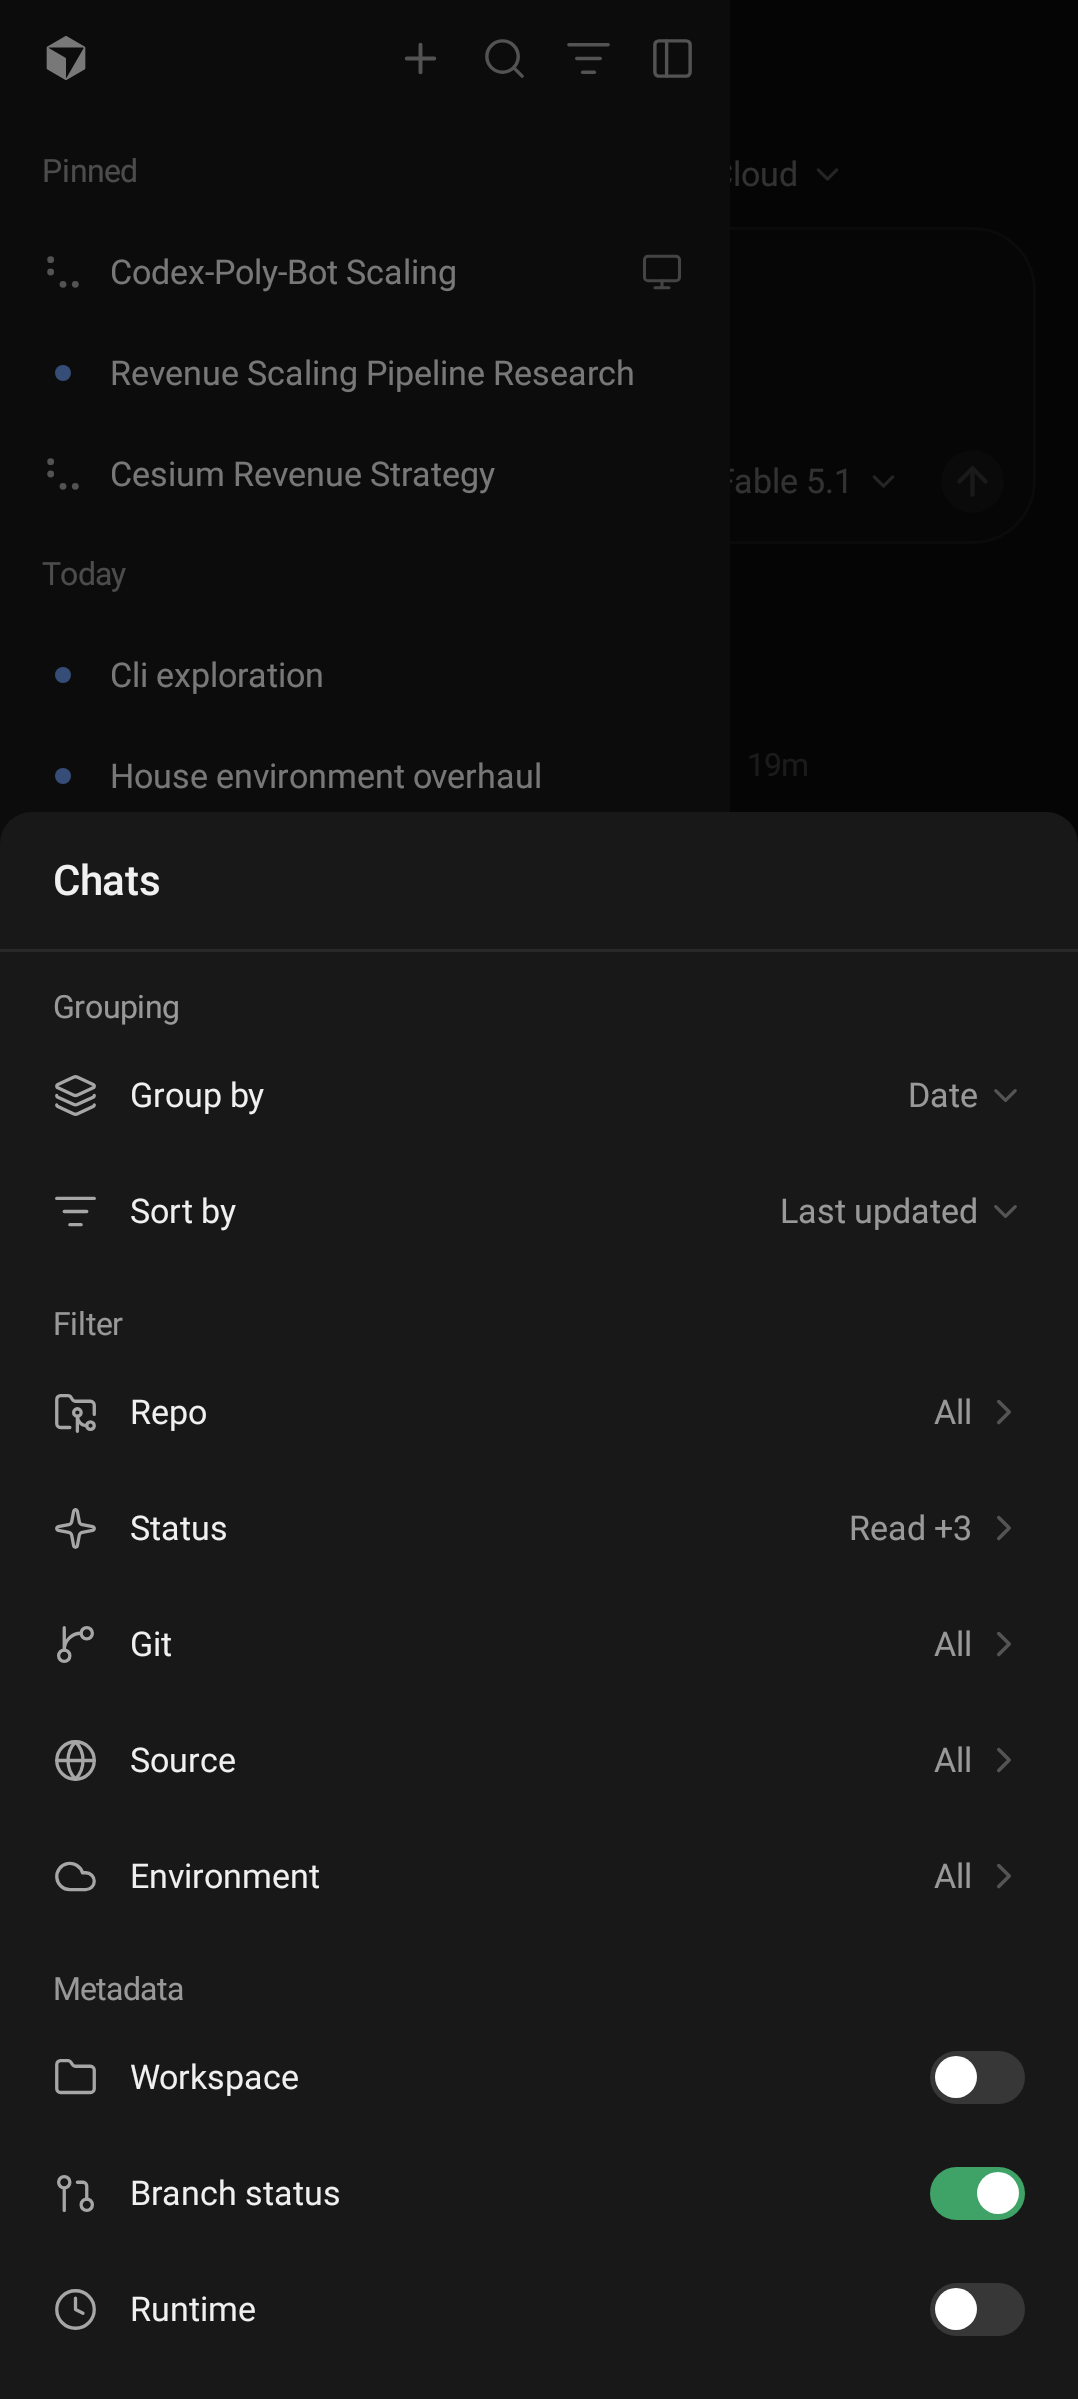
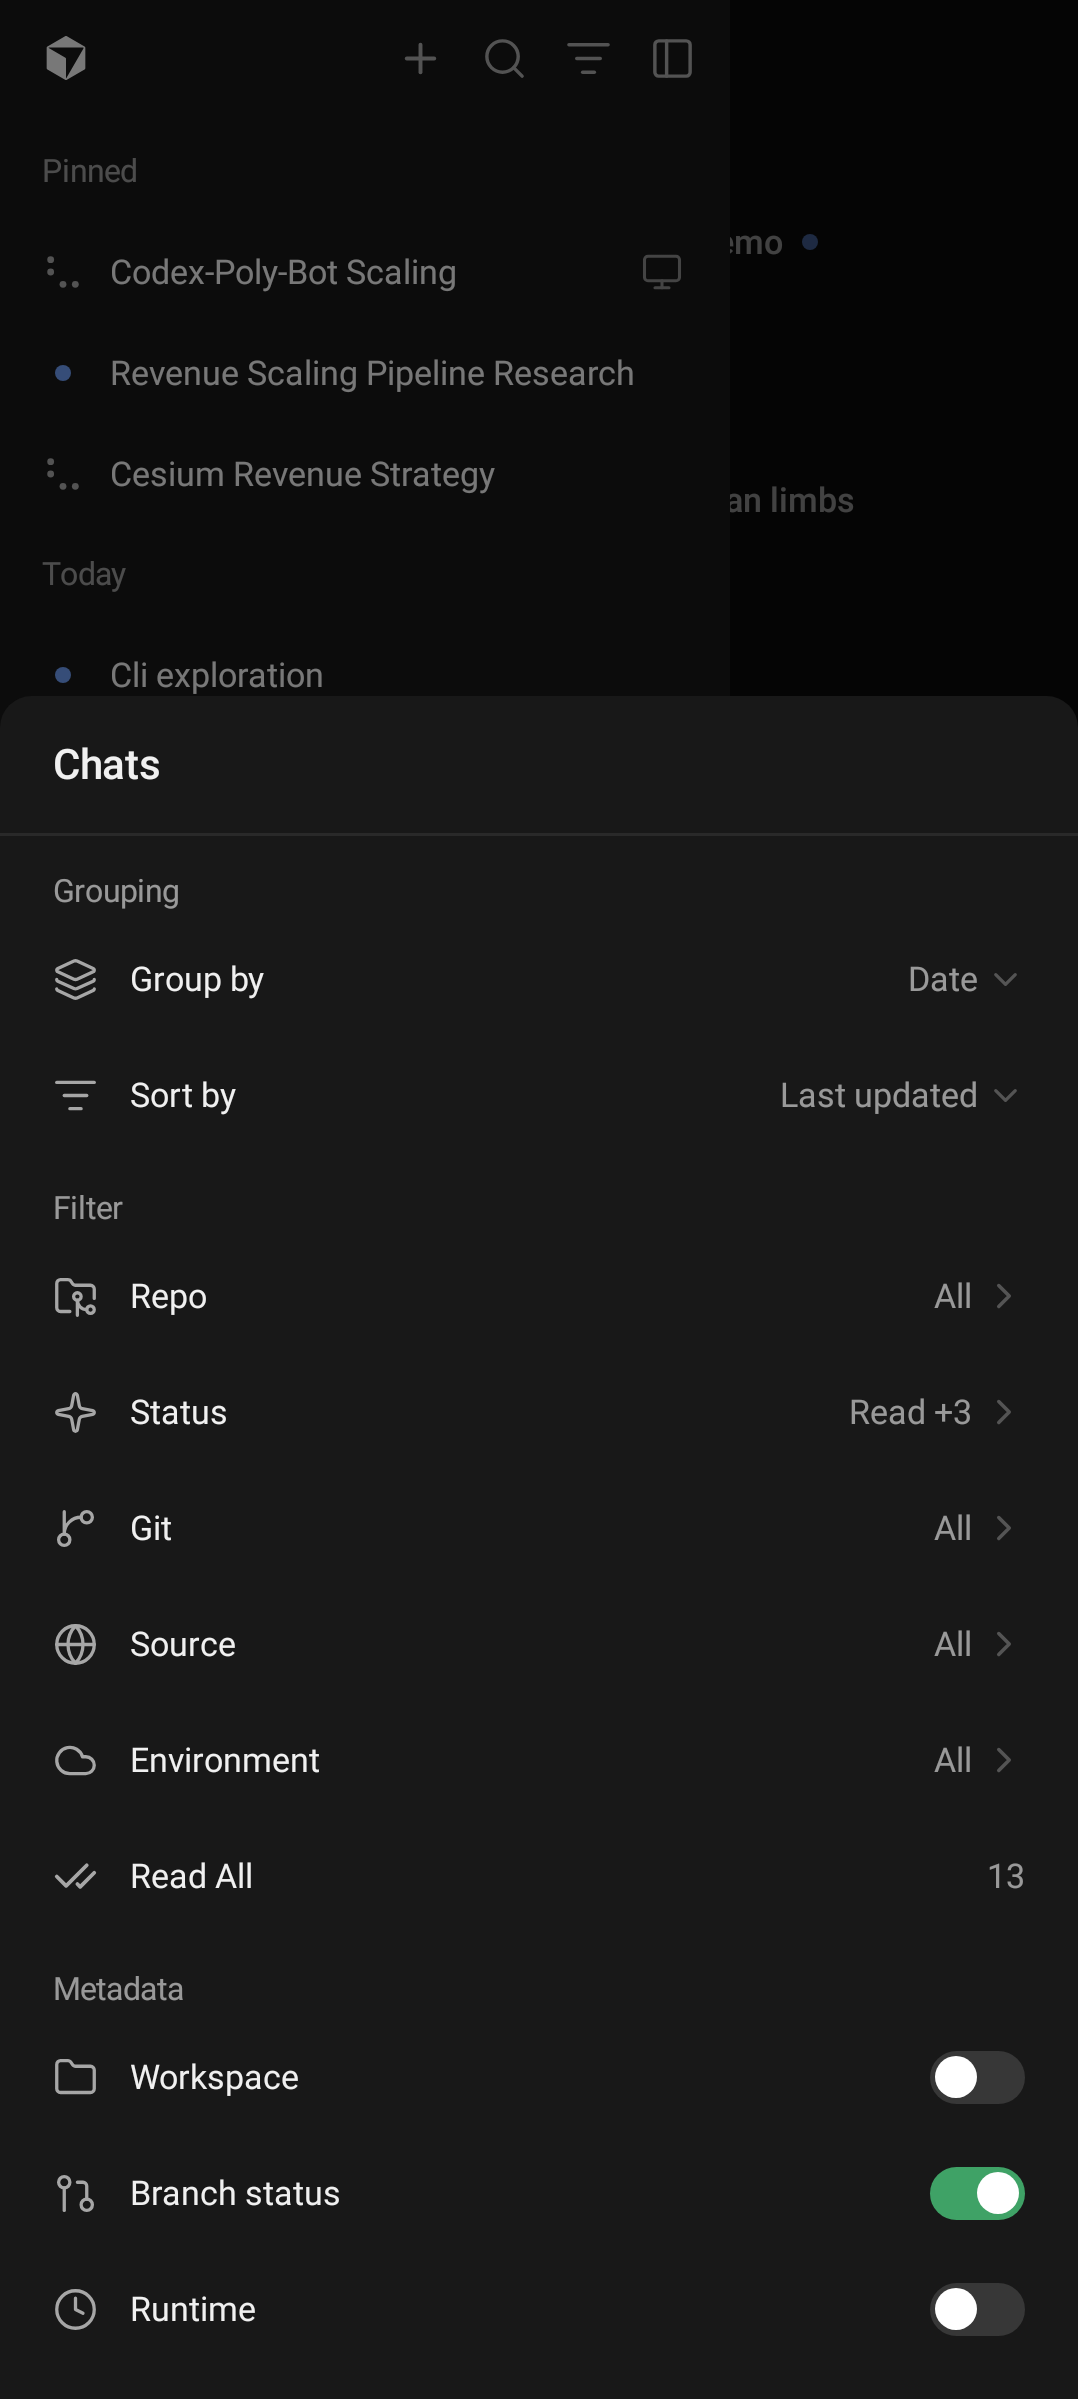
Add a Read All action to the Chats filter sheet.
Tapping it writes a read marker for every loaded conversation at its
current updatedAt, the same stamp opening a chat would write, so the
unread dots clear in one go.

diff --git a/app/src/main/java/com/cursorforandroid/ui/customize/CustomizeSheet.kt b/app/src/main/java/com/cursorforandroid/ui/customize/CustomizeSheet.kt
@@ -41,6 +41,8 @@ import androidx.compose.runtime.setValue
 import androidx.compose.ui.Alignment
 import androidx.compose.ui.Modifier
 import androidx.compose.ui.graphics.vector.ImageVector
+import androidx.compose.ui.semantics.contentDescription
+import androidx.compose.ui.semantics.semantics
 import androidx.compose.ui.text.style.TextOverflow
 import androidx.compose.ui.unit.IntOffset
 import androidx.compose.ui.unit.dp
@@ -70,7 +72,8 @@ import kotlinx.coroutines.launch
 
 /**
  * The "Chats" filter menu (the filter icon in the sidebar header) as a bottom sheet: grouping, sort, the
- * Repo / Status / Git / Source / Environment filters and the metadata toggles. Flat 40dp rows, 13sp, desktop-size toggles.
+ * Repo / Status / Git / Source / Environment filters, Read All, and the metadata toggles. Flat 40dp rows, 13sp,
+ * desktop-size toggles.
  */
 @OptIn(ExperimentalMaterial3Api::class)
 @Composable
@@ -140,7 +143,7 @@ fun CustomizeSheet(viewModel: AgentsViewModel, onDismiss: () -> Unit) {
             ) { current ->
                 Column(Modifier.fillMaxWidth().verticalScroll(rememberScrollState()).padding(bottom = 12.dp)) {
                     when (current) {
-                        null -> RootPage(state.prefs, viewModel, onOpen = { page = it })
+                        null -> RootPage(state.prefs, state.unreadCount, viewModel, onOpen = { page = it })
                         FilterKind.Repo -> RepoPage(state.repoSlugs, state.prefs.repos, onSelectAll = { viewModel.setRepos(null) }) { slug ->
                             val selected = state.prefs.repos ?: state.repoSlugs.toSet()
                             val next = if (slug in selected) selected - slug else selected + slug
@@ -163,7 +166,7 @@ fun CustomizeSheet(viewModel: AgentsViewModel, onDismiss: () -> Unit) {
 private const val PageTransitionMillis = 300
 
 @Composable
-private fun RootPage(prefs: ListPreferences, viewModel: AgentsViewModel, onOpen: (FilterKind) -> Unit) {
+private fun RootPage(prefs: ListPreferences, unreadCount: Int, viewModel: AgentsViewModel, onOpen: (FilterKind) -> Unit) {
     SectionLabel("Grouping")
     PickerRow(CursorIcons.Layers, "Group by", GroupBy.entries.map { it.label }, prefs.groupBy.ordinal) { viewModel.setGroupBy(GroupBy.entries[it]) }
     PickerRow(CursorIcons.Filter, "Sort by", SortOrder.entries.map { it.label }, prefs.sortOrder.ordinal) { viewModel.setSortOrder(SortOrder.entries[it]) }
@@ -174,6 +177,7 @@ private fun RootPage(prefs: ListPreferences, viewModel: AgentsViewModel, onOpen:
     DrillRow(CursorIcons.GitBranch, "Git", prefs.summaryFor(FilterKind.Git)) { onOpen(FilterKind.Git) }
     DrillRow(CursorIcons.Globe, "Source", prefs.summaryFor(FilterKind.Source)) { onOpen(FilterKind.Source) }
     DrillRow(CursorIcons.Cloud, "Environment", prefs.summaryFor(FilterKind.Environment)) { onOpen(FilterKind.Environment) }
+    ReadAllRow(unreadCount = unreadCount, onClick = viewModel::markAllRead)
 
     SectionLabel("Metadata")
     ToggleRow(CursorIcons.Folder, "Workspace", prefs.showWorkspace, viewModel::setShowWorkspace)
@@ -193,23 +197,49 @@ private fun SectionLabel(text: String) {
 
 /** A sheet list row: 17px glyph at 66 %, label, trailing control; inset 8dp so the press highlight has a margin. */
 @Composable
-private fun RowShell(icon: ImageVector?, label: String, onClick: (() -> Unit)?, trailing: @Composable RowScope.() -> Unit) {
+private fun RowShell(
+    icon: ImageVector?,
+    label: String,
+    onClick: (() -> Unit)?,
+    enabled: Boolean = true,
+    trailing: @Composable RowScope.() -> Unit,
+) {
     val colors = CursorTheme.colors
+    val iconTint = if (enabled) colors.iconSecondary else colors.iconQuaternary
+    val labelColor = if (enabled) colors.textPrimary else colors.textQuaternary
     Row(
         Modifier
             .fillMaxWidth()
             .padding(horizontal = 8.dp)
-            .then(if (onClick != null) Modifier.pressable(onClick, CursorTheme.shapes.base) else Modifier)
+            .then(if (onClick != null && enabled) Modifier.pressable(onClick, CursorTheme.shapes.base) else Modifier)
             .height(CursorDimens.listRow)
             .padding(horizontal = 12.dp),
         verticalAlignment = Alignment.CenterVertically,
     ) {
         if (icon != null) {
-            Icon(icon, null, tint = colors.iconSecondary, modifier = Modifier.size(17.dp))
+            Icon(icon, null, tint = iconTint, modifier = Modifier.size(17.dp))
             Spacer(Modifier.width(12.dp))
         }
-        Text(label, style = CursorTheme.typography.base, color = colors.textPrimary, modifier = Modifier.weight(1f), maxLines = 1, overflow = TextOverflow.Ellipsis)
+        Text(label, style = CursorTheme.typography.base, color = labelColor, modifier = Modifier.weight(1f), maxLines = 1, overflow = TextOverflow.Ellipsis)
         trailing()
+    }
+}
+
+/** Marks every loaded conversation read. Dims when nothing is unread. */
+@Composable
+private fun ReadAllRow(unreadCount: Int, onClick: () -> Unit) {
+    val colors = CursorTheme.colors
+    val enabled = unreadCount > 0
+    RowShell(CursorIcons.CheckCheck, "Read All", onClick = onClick, enabled = enabled) {
+        if (enabled) {
+            Text(
+                unreadCount.toString(),
+                style = CursorTheme.typography.base,
+                color = colors.textTertiary,
+                maxLines = 1,
+                modifier = Modifier.semantics { contentDescription = "$unreadCount unread" },
+            )
+        }
     }
 }
 

diff --git a/app/src/test/java/com/cursorforandroid/screenshots/AppScreenshotTest.kt b/app/src/test/java/com/cursorforandroid/screenshots/AppScreenshotTest.kt
@@ -30,8 +30,8 @@ import androidx.test.espresso.Espresso
 import androidx.test.ext.junit.runners.AndroidJUnit4
 import com.cursorforandroid.AppGraph
 import com.cursorforandroid.data.repo.SessionState
-import com.cursorforandroid.domain.RunFooter
 import com.cursorforandroid.domain.ActivityGroup
+import com.cursorforandroid.domain.RunFooter
 import com.cursorforandroid.domain.SourceFilter
 import com.cursorforandroid.ui.CursorRoot
 import com.cursorforandroid.ui.theme.CursorTheme
@@ -178,10 +178,9 @@ class AppScreenshotTest {
         compose.waitUntil(20_000) { compose.onAllNodes(hasContentDescription("New chat")).fetchSemanticsNodes().isNotEmpty() }
         capture("03_sidebar")
 
-        // Chats filter sheet from the header's filter icon.
+        // Chats filter sheet from the header's filter icon. The root page is 04 (chatsFilterReadAll).
         compose.onNodeWithContentDescription("Filter and group chats").performClick()
         waitForText("Grouping")
-        capture("04_chats_filter")
         compose.onNodeWithText("Status").performClick()
         waitForText("Archived")
         capture("05_status_filter")
@@ -304,6 +303,29 @@ class AppScreenshotTest {
         // Leave the chat, so nothing of it is still streaming when the next test brings up its own app.
         Espresso.pressBack()
         compose.waitForIdle()
+    }
+
+    @Test
+    fun chatsFilterReadAll() {
+        val graph = launchApp()
+        enterDemo(graph)
+        compose.onNodeWithContentDescription("Open sidebar").performClick()
+        compose.waitUntil(20_000) { compose.onAllNodes(hasContentDescription("New chat")).fetchSemanticsNodes().isNotEmpty() }
+        compose.onNodeWithContentDescription("Filter and group chats").performClick()
+        waitForText("Read All")
+        capture("04_chats_filter")
+
+        compose.onNodeWithText("Read All").performClick()
+        // The count is the UI's word that the write landed. Do not read DataStore from waitUntil:
+        // that blocks the main thread and the mark-all coroutine never finishes.
+        compose.waitUntil(10_000) {
+            compose.onAllNodes(hasContentDescription("unread", substring = true)).fetchSemanticsNodes().isEmpty()
+        }
+        compose.waitForIdle()
+        Espresso.pressBack()
+        compose.waitUntil(10_000) { compose.onAllNodesWithText("Grouping").fetchSemanticsNodes().isEmpty() }
+        compose.waitForIdle()
+        capture("28_sidebar_all_read")
     }
 
     @Test

diff --git a/app/src/test/java/com/cursorforandroid/ui/agents/AgentsViewModelTest.kt b/app/src/test/java/com/cursorforandroid/ui/agents/AgentsViewModelTest.kt
@@ -101,6 +101,24 @@ class AgentsViewModelTest {
     }
 
     @Test
+    fun `read all marks every loaded conversation read`() = runBlocking<Unit> {
+        val vm = AgentsViewModel(graph)
+        val loaded = vm.loaded()
+        assertThat(loaded.unreadCount).isGreaterThan(0)
+        assertThat(loaded.sections.flatMap { it.rows }.any { it.isUnread }).isTrue()
+
+        vm.markAllRead()
+        val cleared = withTimeout(10_000) { vm.uiState.first { it.unreadCount == 0 && it.hasLoaded } }
+        assertThat(cleared.allAgents).isNotEmpty()
+        assertThat(cleared.sections.flatMap { it.rows }.none { it.isUnread }).isTrue()
+        assertThat(cleared.sections.flatMap { it.rows }.none { it.indicator == AgentIndicator.Unread }).isTrue()
+        val markers = graph.prefs.localAgentState.first().readMarkers
+        cleared.allAgents.forEach { agent ->
+            assertThat(markers[agent.id] ?: 0L).isAtLeast(agent.updatedAtMillis)
+        }
+    }
+
+    @Test
     fun `relative ages are computed against a clock that keeps ticking while the data stands still`() = runBlocking<Unit> {
         val vm = AgentsViewModel(graph, clockTickMs = 20)
         val initial = vm.loaded()

diff --git a/app/src/main/java/com/cursorforandroid/data/local/PreferencesStore.kt b/app/src/main/java/com/cursorforandroid/data/local/PreferencesStore.kt
@@ -265,6 +265,26 @@ class PreferencesStore(context: Context) {
         }
     }
 
+    /**
+     * Marks every id in [markers] read at the given stamp, in one write. A stamp is ignored when an older one
+     * is already stored for that id, so two overlapping calls compose instead of regressing a chat that was
+     * opened in between.
+     */
+    suspend fun markAllRead(markers: Map<String, Long>) = store.edit { p ->
+        if (markers.isEmpty()) return@edit
+        val current = p[Keys.readMarkers]?.let { decodeMarkers(it) } ?: emptyMap()
+        val next = current.toMutableMap()
+        var changed = false
+        for ((id, updatedAtMillis) in markers) {
+            val existing = next[id] ?: 0L
+            if (updatedAtMillis > existing) {
+                next[id] = updatedAtMillis
+                changed = true
+            }
+        }
+        if (changed) p[Keys.readMarkers] = encodeMarkers(next)
+    }
+
     suspend fun markLaunchedHere(agentId: String) = store.edit { p ->
         p[Keys.launchedHere] = (p[Keys.launchedHere] ?: emptySet()) + agentId
     }

diff --git a/app/src/test/java/com/cursorforandroid/data/local/PreferencesStoreTest.kt b/app/src/test/java/com/cursorforandroid/data/local/PreferencesStoreTest.kt
@@ -27,6 +27,16 @@ class PreferencesStoreTest {
     }
 
     @Test
+    fun `mark all read writes every stamp and does not regress a newer marker`() = runBlocking<Unit> {
+        val prefs = PreferencesStore(ApplicationProvider.getApplicationContext())
+        prefs.markRead("already", 2_000L)
+        prefs.markAllRead(mapOf("a" to 100L, "b" to 200L, "already" to 1_000L, "skip" to 0L))
+        assertThat(prefs.localAgentState.first().readMarkers).containsExactly("a", 100L, "b", 200L, "already", 2_000L)
+        prefs.markAllRead(emptyMap())
+        assertThat(prefs.localAgentState.first().readMarkers).containsExactly("a", 100L, "b", 200L, "already", 2_000L)
+    }
+
+    @Test
     fun `snooze persists until unsnoozed`() = runBlocking {
         val prefs = PreferencesStore(ApplicationProvider.getApplicationContext())
         assertThat(prefs.localAgentState.first().snoozedUntil).isEmpty()

diff --git a/app/src/main/java/com/cursorforandroid/ui/agents/AgentsViewModel.kt b/app/src/main/java/com/cursorforandroid/ui/agents/AgentsViewModel.kt
@@ -210,6 +210,13 @@ class AgentsViewModel(
 
     fun markRead(agent: Agent) = viewModelScope.launch { graph.prefs.markRead(agent.id, agent.updatedAtMillis) }
 
+    /** Marks every loaded conversation read at its current `updatedAt`, the same stamp opening a chat would write. */
+    fun markAllRead() = viewModelScope.launch {
+        val agents = graph.agents.state.value.agents
+        if (agents.isEmpty()) return@launch
+        graph.prefs.markAllRead(agents.associate { it.id to it.updatedAtMillis })
+    }
+
     /** Against the stored preferences, in one transaction, so quick successive changes compose (see the store). */
     fun updatePrefs(transform: (ListPreferences) -> ListPreferences) = viewModelScope.launch {
         graph.prefs.updateListPreferences(transform)

diff --git a/app/src/main/java/com/cursorforandroid/ui/components/CursorIcons.kt b/app/src/main/java/com/cursorforandroid/ui/components/CursorIcons.kt
@@ -161,6 +161,14 @@ object CursorIcons {
 
     val Check: ImageVector by lazy { icon("Check") { path("M20 6 9 17l-5-5", 2f) } }
 
+    /** Lucide `check-check` — two ticks, the mark-all-read glyph. */
+    val CheckCheck: ImageVector by lazy {
+        icon("CheckCheck") {
+            path("M18 6 7 17l-5-5", 2f)
+            path("m22 10-7.5 7.5L13 16", 2f)
+        }
+    }
+
     val Refresh: ImageVector by lazy {
         icon("Refresh") {
             path("M3 12a9 9 0 0 1 9-9 9.75 9.75 0 0 1 6.74 2.74L21 8")
